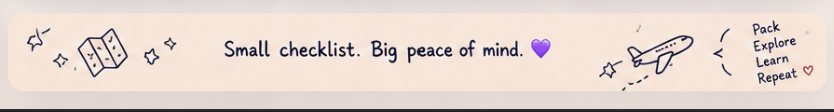
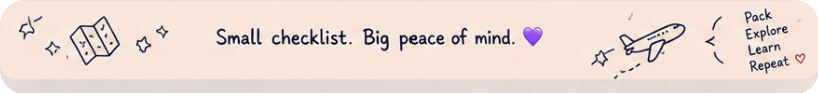
fix(footer): remove black border and mismatched outer container, render as clean floating centered pill

diff --git a/src/App.jsx b/src/App.jsx
@@ -291,12 +291,12 @@ export default function App() {
             />
 
             {/* Bottom Cute Doodle Banner Requested by User */}
-            <div className="w-full pt-1 pb-2 select-none">
-              <div className="w-full rounded-2xl overflow-hidden shadow-xs border border-[#F3E7D9] bg-[#FFF3E8]">
+            <div className="w-full pt-1 pb-3 flex justify-center select-none">
+              <div className="max-w-[760px] w-full px-2">
                 <img
                   src="/assets/footer_banner.png"
                   alt="Small checklist. Big peace of mind. Pack Explore Learn Repeat ♡"
-                  className="w-full h-auto object-contain max-h-24 mx-auto block"
+                  className="w-full h-auto block drop-shadow-sm transition-transform duration-200 hover:scale-[1.01]"
                 />
               </div>
             </div>
